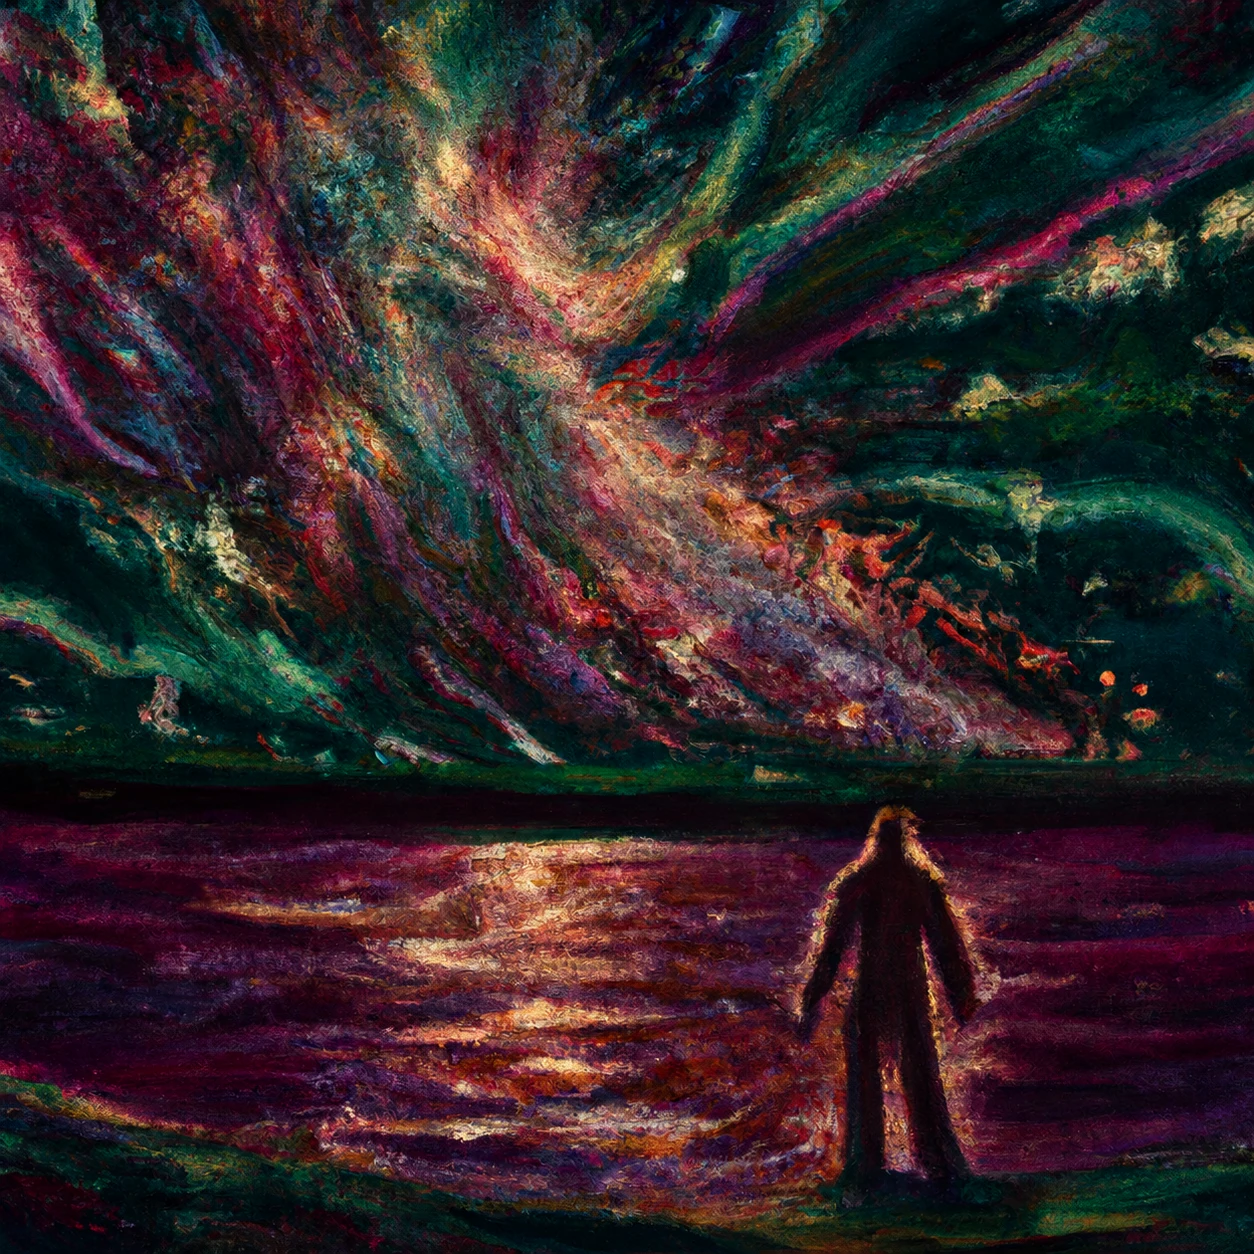
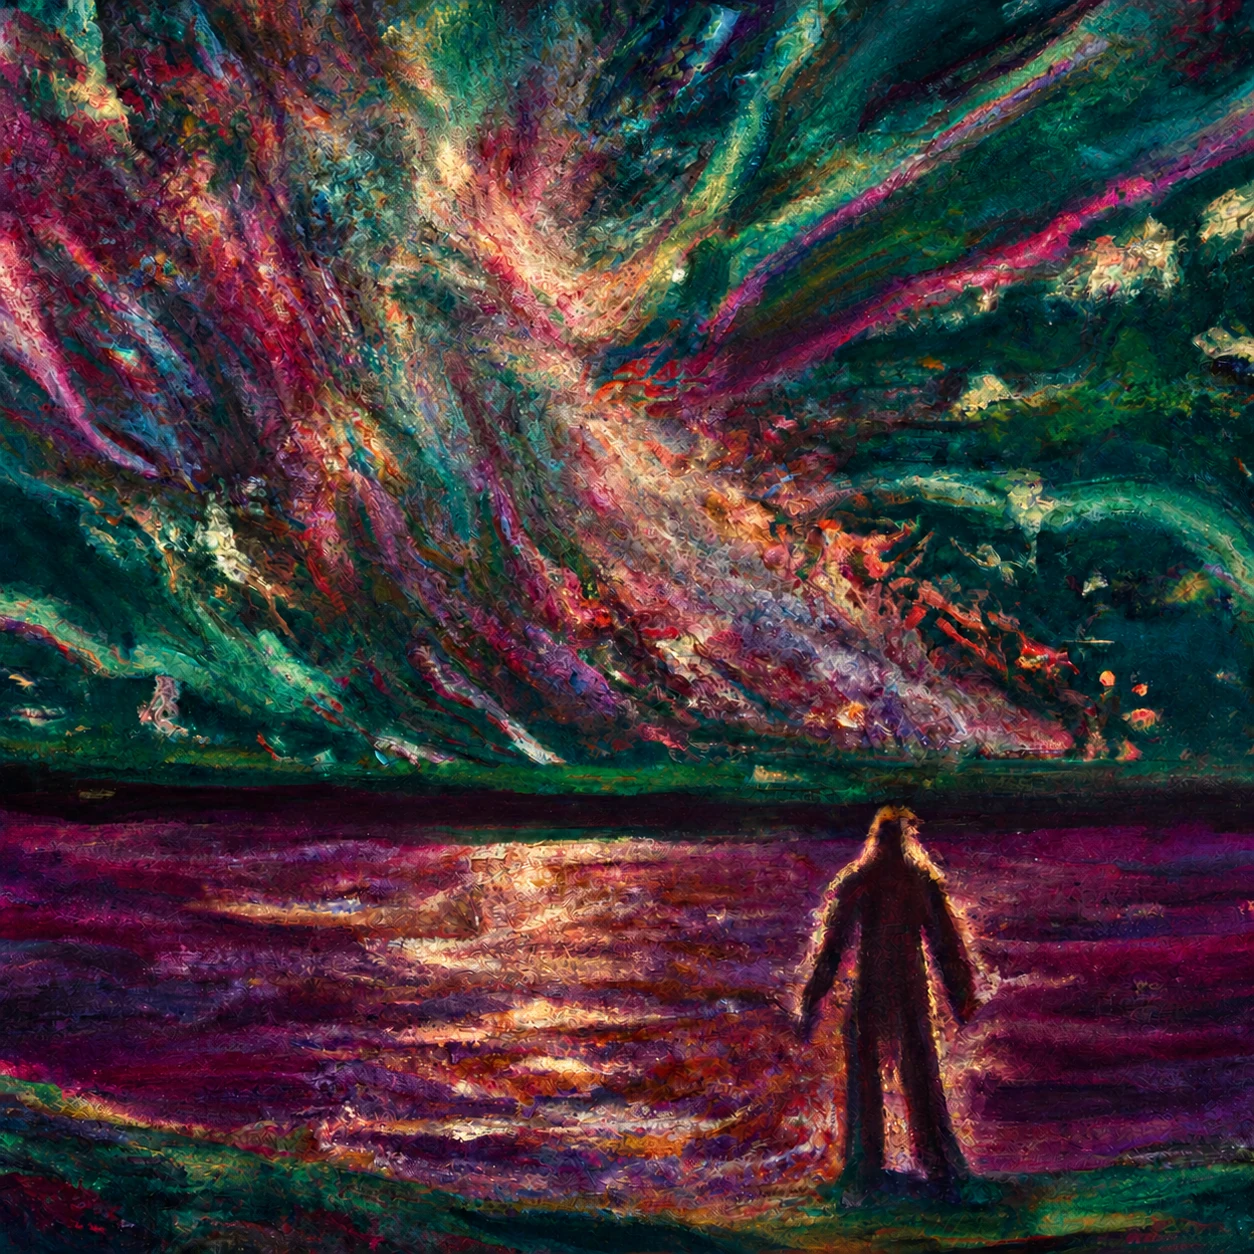
Enlarge covers on click, credit the democracy cover's source, new dark intro cover
Clicking a post's cover opens it in a lightbox with the optional
cover.caption and a new cover.source / cover.sourceUrl credit.

Claude-Session: https://claude.ai/code/session_01CZYsVY7Dpb2HsSWAqx3gao

diff --git a/site/layouts/_default/single.html b/site/layouts/_default/single.html
@@ -17,14 +17,41 @@
     </div>
 
     {{ with $cover }}
-    {{ if $coverDark }}
-    <div class="post-cover cover-stack">
-      <img class="cover-light" src="{{ . }}" alt="{{ $.Title }}" />
-      <img class="cover-dark" src="{{ $coverDark }}" alt="" aria-hidden="true" />
-    </div>
-    {{ else }}
-    <img class="post-cover" src="{{ . }}" alt="{{ $.Title }}" />
-    {{ end }}
+    {{- $c := $.Params.cover }}
+    {{- $alt := $c.alt | default $.Title }}
+    <button type="button" class="cover-zoom" aria-label="Enlarge cover image">
+      {{ if $coverDark }}
+      <div class="post-cover cover-stack">
+        <img class="cover-light" src="{{ . }}" alt="{{ $alt }}" />
+        <img class="cover-dark" src="{{ $coverDark }}" alt="" aria-hidden="true" />
+      </div>
+      {{ else }}
+      <img class="post-cover" src="{{ . }}" alt="{{ $alt }}" />
+      {{ end }}
+    </button>
+    {{/* Enlarged cover; closes on any click or Escape */}}
+    <dialog class="cover-lightbox" aria-label="Cover image">
+      <figure>
+        <div class="cover-stack">
+          <img class="cover-light" src="{{ . }}" alt="{{ $alt }}" />
+          {{ with $coverDark }}<img class="cover-dark" src="{{ . }}" alt="" aria-hidden="true" />{{ end }}
+        </div>
+        {{ if or $c.caption $c.source }}
+        <figcaption>
+          {{ with $c.caption }}<span>{{ . | markdownify }}</span>{{ end }}
+          {{ with $c.source }}<span class="cover-source">Source: {{ if $c.sourceUrl }}<a href="{{ $c.sourceUrl }}" target="_blank" rel="noopener noreferrer">{{ . | markdownify }}</a>{{ else }}{{ . | markdownify }}{{ end }}</span>{{ end }}
+        </figcaption>
+        {{ end }}
+      </figure>
+    </dialog>
+    <script>
+      (function(){
+        var btn = document.querySelector(".cover-zoom"), box = document.querySelector(".cover-lightbox");
+        if (!btn || !box || !box.showModal) return;
+        btn.addEventListener("click", function(){ box.showModal(); });
+        box.addEventListener("click", function(e){ if (!e.target.closest("a")) box.close(); });
+      })();
+    </script>
     {{ end }}
 
     <div class="prose">

diff --git a/site/assets/css/tensor-collective.css b/site/assets/css/tensor-collective.css
@@ -356,6 +356,44 @@ img, video { max-width: 100%; height: auto; }
   border-radius: var(--radius);
 }
 
+/* Click-to-enlarge cover */
+.cover-zoom {
+  display: block;
+  width: 100%;
+  padding: 0;
+  border: 0;
+  background: none;
+  cursor: zoom-in;
+}
+.cover-zoom .post-cover { display: block; }
+.cover-lightbox {
+  max-width: min(92vw, 1400px);
+  max-height: 92vh;
+  padding: 0;
+  border: 0;
+  background: transparent;
+  color: var(--foreground);
+  cursor: zoom-out;
+  overflow: visible;
+}
+.cover-lightbox::backdrop { background: rgb(0 0 0 / 0.8); }
+.cover-lightbox figure { margin: 0; }
+.cover-lightbox .cover-stack { border-radius: var(--radius); }
+.cover-lightbox img { max-height: 80vh; width: auto; max-width: 100%; margin: 0 auto; }
+.cover-lightbox .cover-stack:has(.cover-dark) img { width: 100%; }
+.cover-lightbox figcaption {
+  margin-top: 0.75rem;
+  padding: 0.6rem 0.9rem;
+  background: var(--card);
+  border-left: 3px solid var(--primary);
+  border-radius: var(--radius);
+  font-size: 0.9rem;
+  line-height: 1.5;
+}
+.cover-lightbox figcaption p { margin: 0; display: inline; }
+.cover-lightbox .cover-source { display: block; color: var(--muted-foreground); font-size: 0.85rem; }
+.cover-lightbox .cover-source a { text-decoration: underline; text-underline-offset: 2px; }
+
 /* ---- Prose (article body) ---- */
 .prose {
   font-size: 1.0625rem;

diff --git a/cover-art/LOG.md b/cover-art/LOG.md
@@ -4,7 +4,7 @@ One entry per cover: which post it's for, the starting image it was painted from
 
 Covers are made in ChatGPT (DALL·E 3 for the older ones). See `style-pack/` for the style guide to drop into a new session.
 
-**To add a cover:** save the starting image to `sources/<post-slug>.<ext>`, copy the template at the bottom, and fill it in.
+**To add a cover:** save the starting image to `sources/<post-slug>.<ext>`, copy the template at the bottom, and fill it in. If the starting image needs crediting, set `cover.source` (and optionally `cover.sourceUrl`) in the post's front matter; it shows under the enlarged cover along with any `cover.caption`.
 
 ---
 
@@ -14,7 +14,7 @@ Covers are made in ChatGPT (DALL·E 3 for the older ones). See `style-pack/` for
 - **Cover:** `cover.webp` (1672×941), dark-mode `cover-dark.webp` (1672×941)
 - **Date:** 2026-10-24
 - **Tool:** ChatGPT
-- **Starting image:** a classical painting of an orator addressing the Athenian assembly with the Acropolis behind. Likely Philipp von Foltz, *Pericles' Funeral Oration* (1852). *To confirm, and add to `sources/`.*
+- **Starting image:** a painting of an orator addressing the Athenian assembly with the Acropolis behind, from Encyclopædia Britannica's *Democracy* image gallery: https://www.britannica.com/topic/democracy/images-videos. Credited on the post via `cover.source` / `cover.sourceUrl`. *The painting itself is unidentified; add a copy to `sources/`.*
 - **Prompt:** "Paint me an impressionist oil painting version of this painting pasted in the style of an exploding nebula." The dark cover was a night-time repaint of the day cover.
 - **Chat:** https://chatgpt.com/share/6add4043-003c-83e8-b361-bcb8ec73d4b3
 - **Notes:** the first cover was swapped for the current one on 2026-10-24.

diff --git a/site/content/posts/democracy-alignment/index.md b/site/content/posts/democracy-alignment/index.md
@@ -11,6 +11,8 @@ cover:
   image: cover.webp
   imageDark: cover-dark.webp
   alt: "An orator addresses a crowd in an ancient Athenian assembly, painted in vivid impressionist strokes"
+  source: "Painted from an image in Encyclopædia Britannica's *Democracy* gallery"
+  sourceUrl: "https://www.britannica.com/topic/democracy/images-videos"
 
 draft: false
 ---
